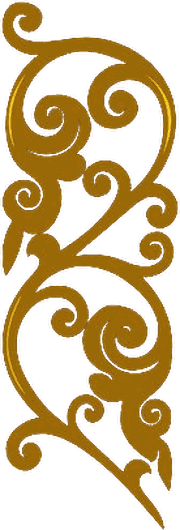
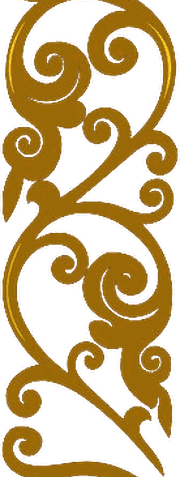
style: kanote tiles overlap by 10% for a continuous vine

diff --git a/style.css b/style.css
@@ -195,12 +195,12 @@ body.fs-fallback #poster {
 
 .kanote-top {
   top: 0;
-  background-image: url("img/kanote-top.png?v=2");
+  background-image: url("img/kanote-top.png?v=3");
 }
 
 .kanote-bottom {
   bottom: 0;
-  background-image: url("img/kanote-bottom.png?v=2");
+  background-image: url("img/kanote-bottom.png?v=3");
 }
 
 .kanote-left,
@@ -214,12 +214,12 @@ body.fs-fallback #poster {
 
 .kanote-left {
   left: 0;
-  background-image: url("img/kanote-left.png?v=2");
+  background-image: url("img/kanote-left.png?v=3");
 }
 
 .kanote-right {
   right: 0;
-  background-image: url("img/kanote-right.png?v=2");
+  background-image: url("img/kanote-right.png?v=3");
 }
 
 .titles {

diff --git a/index.html b/index.html
@@ -8,7 +8,7 @@
   <link rel="preconnect" href="https://fonts.gstatic.com" crossorigin>
   <link rel="stylesheet" href="https://fonts.googleapis.com/css2?family=Padauk:wght@400;700&family=Noto+Sans+Myanmar:wght@400;700&display=swap">
   <!-- Bump ?v= whenever style.css / app.js change: the Pages CDN caches them independently of this file. -->
-  <link rel="stylesheet" href="style.css?v=13">
+  <link rel="stylesheet" href="style.css?v=14">
 </head>
 <body>
   <main id="stage">
